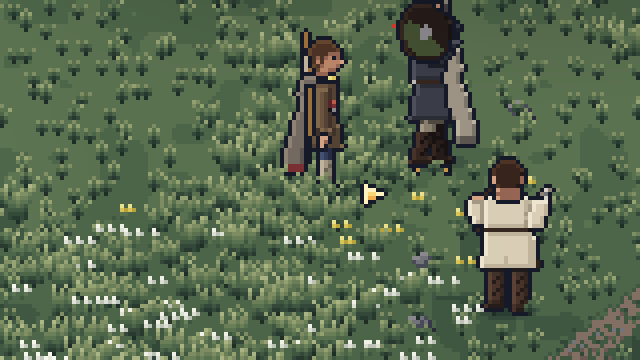
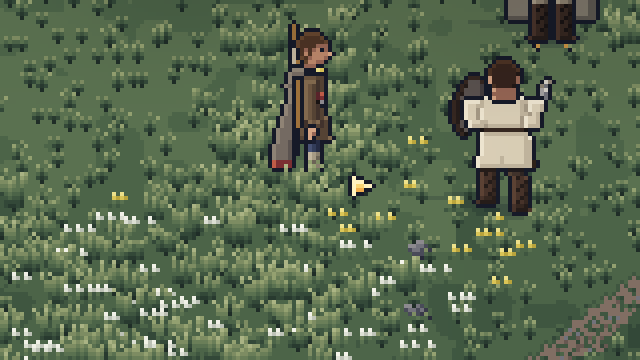
Third playtest: combat built - finish or spare with the SPARED fate, early combat prompts, Svart (parry only) and Ketill (dodge the red blow), first-sight warnings and taunts, the sneak hint, the talk at the fold, the healing prompt (DG-30 to DG-49)
Claude-Session: https://claude.ai/code/session_0162ohqVpUJyGNPN8YxrUFhR

diff --git a/src/tools/art/capturePt3Combat.ts b/src/tools/art/capturePt3Combat.ts
@@ -6,8 +6,9 @@
  * Played in capture mode as the 2.5 clips are (captureCombat2.ts: two ticks a frame, every frame
  * exact), with the overlay shown (the speech lines and the prompts at the right edge are part of
  * what the clips show). A moment is staged through the page's world, then played with the keys,
- * reading the fighters' drawn state as a player reads it. Each is a GIF at 1x of the whole 640 x
- * 360 view (30 frames a second) and a still at 4x of its key moment:
+ * reading the fighters' drawn state as a player reads it. Each is a GIF at 1x of a 480 x 270 crop
+ * of the view (30 frames a second; the fighters, the prompts and the speech line) and a still at 4x
+ * on the steerer:
  *   finisher     Svart beaten (the reel); the finisher held, then its one blow
  *   spare        Svart downed; let go: the shout, his reply, the spear dropped, him running
  *   warning      Conn alone at the stern turning alert: his warning, and the pause
@@ -314,30 +315,40 @@ async function parryOnly(browser: Browser, out: string): Promise<string> {
   let turned = 0;
   let parried = false;
   let pressed = false;
+  let first = -1;
+  let last = -FPS * 9;
+  let parriedAt = -1;
   let after = -1;
   for (let i = 0; i < FPS * 16 && (after < 0 || i < after + FPS * 2); i++) {
     const s = await foe(page, SVART);
     const me = await steerer(page);
     const f = s.f;
-    // Two blows struck at his guard first (turned); then wait for his and parry it in its wind-up.
+    // Blows struck at his guard now and then (turned; he steps back after each); his own, parried.
     if (
-      turned < 2 &&
+      !parried &&
+      !pressed &&
+      i - last >= FPS * 2.5 &&
       me.state === 'idle' &&
       f?.state !== undefined &&
       !f.state.startsWith('charge')
     ) {
       const d = Math.hypot(s.x - me.x, s.y - me.y);
-      if (d < 40 && i % 40 === 0) {
+      // Walk in to him (held until in reach), then strike.
+      const keys = [
+        s.x > me.x + 8 ? 'KeyD' : s.x < me.x - 8 ? 'KeyA' : '',
+        s.y > me.y + 8 ? 'KeyS' : s.y < me.y - 8 ? 'KeyW' : '',
+      ];
+      if (d > 36) {
+        for (const k of keys) if (k !== '') await page.keyboard.down(k);
+      } else {
+        for (const k of ['KeyA', 'KeyD', 'KeyW', 'KeyS']) await page.keyboard.up(k);
         await strike(page);
+        if (turned === 0) first = i;
+        last = i;
         turned++;
       }
-    }
-    if (
-      f !== null &&
-      (turned >= 2 || i > FPS * 6) &&
-      !pressed &&
-      ['light1', 'heavyRelease'].includes(f.state)
-    ) {
+    } else for (const k of ['KeyA', 'KeyD', 'KeyW', 'KeyS']) await page.keyboard.up(k);
+    if (f !== null && turned >= 1 && !pressed && ['light1', 'heavyRelease'].includes(f.state)) {
       // Pressed a few ticks before his blow lands, as the dusk fight's parry clip (captureCombat2).
       const lead = f.activeAt - s.t;
       if (lead >= PARRY_LEAD_MIN && lead <= PARRY_LEAD_MAX) {
@@ -349,9 +360,12 @@ async function parryOnly(browser: Browser, out: string): Promise<string> {
       pressed = false;
     if (f?.state === 'parried' && !parried) {
       parried = true;
+      parriedAt = i;
       await strike(page);
     }
+    // Two seconds after he falls back hurt (or dies), or three after the parry at most.
     if (parried && (s.dead || f?.state === 'reel') && after < 0) after = i;
+    if (parried && after < 0 && i >= parriedAt + FPS) after = i;
     await clip.frame(parried && f?.state === 'parried');
     await heal(page);
     if (i % 60 === 0)
@@ -360,7 +374,14 @@ async function parryOnly(browser: Browser, out: string): Promise<string> {
         if (m?.state === 'WAIT_FOR_OPENING') m.patienceUntil = 0;
       }, SVART);
   }
-  const line = await done(clip, 'parry-only', `parried ${String(parried)}`);
+  // From half a second before the first blow at his guard (the walk in left out), and no more
+  // than seven seconds before the parry (the GIF's size).
+  const line = await done(
+    clip,
+    'parry-only',
+    `parried ${String(parried)}, ${String(turned)} blows turned`,
+    Math.max(0, first - FPS / 2, parriedAt - FPS * 7),
+  );
   await page.close();
   return line;
 }
@@ -426,7 +447,7 @@ async function dodgeOnly(browser: Browser, out: string): Promise<string> {
     clip,
     'dodge-only',
     `dodged ${String(dodged)}, struck ${String(hits)}`,
-    Math.max(0, first - FPS),
+    Math.max(0, first - FPS / 2),
   );
   await page.close();
   return line;

diff --git a/tests/browser/sound.spec.ts b/tests/browser/sound.spec.ts
@@ -57,8 +57,9 @@ test('the sound test page offers every item, with captions and sliders', async (
   // a wound and eating. Committed combat adds seven (design addendum 2.5): the three tells by
   // weight, the steerer's tell, exhausted breathing, a sidearm drawn and a shield split; and four
   // for commitment (DF-83): the parry's rasp, the block's creak, the dodge's landing, the whiff.
-  // The user's third playtest adds the pause menu's click (DG-88).
-  await expect(page.locator('[data-sound]')).toHaveCount(9 + 3 + 3 + 8 + 10 + 7 + 4 + 1);
+  // The user's third playtest adds the pause menu's click (DG-88), and four for the combat (DG-29):
+  // the finisher, the let-go, the guard turned and the red blow's scrape.
+  await expect(page.locator('[data-sound]')).toHaveCount(9 + 3 + 3 + 8 + 10 + 7 + 4 + 1 + 4);
   await expect(page.locator('[data-voice]')).toHaveCount(4);
   await expect(page.locator('[data-step]')).toHaveCount(6);
   await expect(page.locator('[data-step-all]')).toHaveCount(1);

diff --git a/src/sim/land/fight.ts b/src/sim/land/fight.ts
@@ -4232,9 +4232,15 @@ function walk(fw: FightWorld, id: Id, a: OnFootActor, fa: ActorFight): void {
   const ny = a.y + vy * speed;
   if (vx !== 0 && clear(nx, a.y)) a.x = nx;
   if (vy !== 0 && clear(a.x, ny)) a.y = ny;
-  if (a.x === before.x && a.y === before.y && fa.ai.goal?.away === true && speed > 0) {
-    // Running away and blocked straight ahead (rock, deep water): slide along it, on the side
-    // that takes them further from the steerer, rather than stand at it in sight for good.
+  if (
+    a.x === before.x &&
+    a.y === before.y &&
+    (fa.ai.mode === 'FLEE' || fa.ai.mode === 'LEAVE') &&
+    fa.ai.goal?.away === true &&
+    speed > 0
+  ) {
+    // Fleeing or leaving and blocked straight ahead (rock, deep water): slide along it, on the
+    // side that takes them further from the steerer, rather than stand at it in sight for good.
     const p = onFoot.player;
     const sides = [
       { x: -vy, y: vx },

diff --git a/tests/unit/art.test.ts b/tests/unit/art.test.ts
@@ -95,6 +95,7 @@ describe('art lint (Book 7 section 11) — Stage 4 acceptance check 1', () => {
       'fx_outline',
       'fx_people',
       'fx_rain_cloth',
+      'fx_red_glint',
       'fx_sea_burial',
       'fx_sealcave',
       'fx_seamap',

diff --git a/docs/stage-reports/playtest-3-combat.md b/docs/stage-reports/playtest-3-combat.md
@@ -98,10 +98,55 @@ go or finishes it, dodges the red blow across and past Ketill and strikes his re
 Svart; the search bot paths round the fold's walls (DG-48).
 
 ## Tests
-_Filled at the end of the session._
+Run in the shared tree, with the story and interface parts built alongside; failures that are not
+this part's are named.
+
+- **New tests of this part**: `tests/unit/pt3combat.test.ts`, 60 tests (spared records and their
+  fates, the finishers' frame data by weapon and variant, the teaching foes, first sight, the
+  prompts, the heal prompt, the sneak hint, the fold's talk); `tests/browser/pt3combat.spec.ts`,
+  4 tests (stepped, DE-81). **All pass.**
+- Older tests changed for this part: the older combat tests fight the scavengers as plain outlaws
+  (`tests/unit/plainFoes.ts`; DG-48) where they measure other rules; the alarm bark's test reads
+  the first-sight line; the archer tests use Conn alone; the finisher test waits the Book 10
+  wind-up; `saves.test.ts` counts versions to 13; `art.test.ts` and `strandArt.test.ts` count the
+  new frames and the new `fx_red_glint` sheet.
+- `npm run lint`: **clean** (ESLint, Prettier, content lint: 1628 strings, 532 IDs; art lint: 149
+  sheets, 0 placeholders).
+- `npm run build`: **builds** (the usual large-chunk warning only).
+- `npm test` (whole suite, last run): **909 tests: 906 passed, 2 failed, 1 skipped.** The two are
+  golden save 11's ("loads, matches its hash..." and "is reproduced exactly by its scenario"):
+  version 13 and the three parts' changes, for the main session to regenerate. An earlier run also
+  failed the fold's FIGHT scenario (the careful player stalled: the new flee slide first applied to
+  a fighter backing off too; now fleeing and leaving only, and the scenario passes) and art lint's
+  sheet list (the new `fx_red_glint`, now counted).
+- `npm run test:browser -- --project=chromium` (one full run, 8.4 min): **93 passed, 2 failed.**
+  `sound.spec.ts` counted 45 sound buttons and found 49: the four are this part's new sounds, now
+  counted (re-run: passes). `storm.spec.ts`'s frame budget (the cold open, 6.06 ms of script a frame
+  against 5.5) under the full run's load; re-run alone it passes, as the interface part's report
+  found for the same spec. No threshold was changed. CI's Chromium run is the measure.
+- WebKit was not run here: its browser cannot be downloaded in this environment. CI runs Chromium
+  and WebKit, and both block publishing. CI results for this part: none yet (not committed by this
+  session; the main session commits and publishes).
+- The sounds were rendered and measured with `npm run audio:render` (see Balance).
+- Found and fixed by the browser tests and the captures: the let-go shout was lost when a
+  companion's flight bark came in the same frame (the shout is now offered after the frame's
+  events); a let-go foe waited for its next look round before running; a fleeing foe stood at a
+  rock in sight for good (DG-32). No probe tests are left.
 
 ## Gate checks
-_Filled at the end of the session._
+The tests the user asked for, all passing:
+
+| Asked for | File | Test |
+|---|---|---|
+| Spared enemies are recorded (deed, fate, save and load) | `tests/unit/pt3combat.test.ts`; `tests/browser/pt3combat.spec.ts` | "letting go a reeling / downed / begging foe writes SPARED, a record with its fate, drops the weapon, and the foe leaves without rejoining"; "the fates' shares over 2,000 seeded spares match Book 10's odds within 3 points, under each condition"; "the record and what was taught survive save and load; an older save migrates to version 13"; "SPARED is read by each culture's row"; "the scheduler: a Chapter 1 spare waits for the launch..."; browser: "a beaten foe: the choice at the right edge; G lets go, with the shout, the reply and the run" |
+| Finishers only in beaten states, with Book 10 frame data | `tests/unit/pt3combat.test.ts`; `tests/browser/pt3combat.spec.ts` | "the choice is offered only to a beaten foe, within offerReach, in the strike arc"; "a stagger at or below beatenBelow becomes the reel"; one test for each weapon and variant (14): "Book 10's wind-up, active, recovery, step and hitstop; the deed"; "a begging foe finished is SURRENDERED_KILLED; a hold let go early does nothing; a hit in the hold ends it"; browser: "the finisher held on V: one blow after the hold, and the deed of a killing" |
+| The teaching foes beatable only the intended way | `tests/unit/pt3combat.test.ts`; `tests/browser/pt3combat.spec.ts` | for each of Svart and Ketill, every other way for five minutes leaves him at full vitality, his guard turning it (chip with lights, charge heavies, block and punish, shove, backstab from cover, loose arrows, throw spears: 14 tests); "a player that parries beats Svart, on 10 seeds"; "a player that dodges the red blow and strikes in its recovery beats Ketill, on 10 seeds"; "the red blow breaks a raised guard and beats a parry..."; browser: "Svart turns a blow outside his opening; the parry prompt shows at his telegraph" |
+| Every tutorial enemy speaks before attacking | `tests/unit/pt3combat.test.ts`; `tests/browser/pt3combat.spec.ts` | at the dusk (walking or running from the west, down the bank, sneaking through the dune grass, from the east) and the fold's band, Seal Cave's band and one alone, met from the east and the west; "a warning when alone or outnumbered, a taunt in a group; no line follows itself..."; browser: "the scavengers at the stern speak before any attack (first sight)" |
+| Prompts in fights 1 to 3 only | `tests/unit/pt3combat.test.ts` | "show in fights 1 to 3, and never after; each retires after its uses"; "the simulation counts the steerer's fights and the uses in fights" |
+| The heal prompt stops after 3 heals | `tests/unit/pt3combat.test.ts` | "the heal prompt shows on a hit below the threshold with a binding carried, and stops after 3 heals"; "the simulation counts heals finished..." |
+| The sneak hint | `tests/unit/pt3combat.test.ts` | "...the sneak hint shows on the dusk approach, at most its times, gone once sneaked" |
+| The fold's talk stops on awareness | `tests/unit/pt3combat.test.ts` | "plays while all are unaware, never the same exchange twice in a row, leaving out the absent"; "stops for good the moment any of them notices the steerer"; "in the game: the fold's band talks while unaware, and stops at the first suspicion" |
+| Browser tests, stepped | `tests/browser/pt3combat.spec.ts` | the four above, each in capture mode (the page advances only when stepped) |
 
 ## Art check
 All new frames are palette-indexed sources in the people generator
@@ -109,7 +154,9 @@ All new frames are palette-indexed sources in the people generator
 miss, and two finishers for each weapon kind, 114 frames a facing; `combat24_ui.py`: the red glint
 on the Danger tell's reserved code; `missiles.py`: the spear and axe lying as loot), compiled through
 `art:adopt`, `art:sheets` and `art:compile`; art lint is clean (149 sheets, 0 placeholders). The
-sweeps under `docs/art/stage-06-rework` that the proposal tool rewrites were restored from git.
+sweeps under `docs/art/stage-06-rework` that the proposal tool rewrites (and that the in-progress
+commits took in) are restored to the books' revision, c7ecdb6, in the working tree, with the
+capture's leftover frames removed; `docs/art/mockups` is unchanged.
 
 - **Rendered at 1x and 4x and inspected** (`assets/art/authoring/pt3_combat_review.py`):
   `docs/art/playtest-3/combat/sheets/` holds `steerer_a_pt3`, `steerer_b_pt3`, `heavy_pt3`,
@@ -120,7 +167,19 @@ sweeps under `docs/art/stage-06-rework` that the proposal tool rewrites were res
   meeting the blow; the red glint reads at 1x as a short red flare at the weapon's edge.
 - **From the real game at 1x** (`npm run capture -- playtest-3-combat`, extending the capture tool:
   `src/tools/art/capturePt3Combat.ts`), each with a 4x still, in `docs/art/playtest-3/combat/`:
-  GIFS_TABLE
+
+  | GIF (1x: a 480 x 270 crop of the 640 x 360 view, 30 fps) | Size | What it shows |
+  |---|---|---|
+  | `finisher.gif` + `finisher@4x.png` | 1.09 MB | Svart reeling at the stern, the choice at the right edge, V held, the seax's standing finisher: one blow, his fall |
+  | `spare.gif` + `spare@4x.png` | 1.55 MB | Svart downed, G: the steerer's shout, his reply, the spear dropped, his run |
+  | `warning.gif` + `warning@4x.png` | 1.85 MB | walking up the strand at dusk to Conn alone at the stern: his warning on first sight, and the pause |
+  | `taunt.gif` + `taunt@4x.png` | 0.99 MB | the same approach to Svart and Conn together: the taunt on first sight, and the shorter pause |
+  | `parry-only.gif` + `parry-only@4x.png` | 2.78 MB | three blows turned by Svart's guard (the sparks), the parry prompt, his blow parried and the riposte, his line |
+  | `dodge-only.gif` + `dodge-only@4x.png` | 1.70 MB | Ketill at the fold: the red glint and the prompt, Bran's guidance, two red blows dodged across him and his recovery struck |
+
+  Each was watched frame by frame (a tile of frames per GIF) and its still looked at at 4x: the
+  prompts sit at the right edge clear of the captions and fade over the fighters; the speech is
+  under the speaker's name; the new frames play at the game's scale with the old ones.
 - Compared with `docs/art/reference/` (`wreck-strand-target`): the clips are the strand and the fold
   as already built to the Book 7 section 14 standard (grass in the wind, the surf, the dusk light,
   the shadows), with the new fight frames in them; the new frames hold the reference's outline,
@@ -168,7 +227,23 @@ DG-30 to DG-49 in `docs/decision-log.md` ("Building the combat"). To flag for th
   offered and nobody else in reach winds up.
 
 ## Known issues
-KNOWN_ISSUES
+- **Golden save 11** (main session): fails to load and to reproduce, as expected with version 13
+  and the three parts' changes; the main session regenerates it. Goldens 1 to 10 are untouched and
+  load through the migration.
+- **The spared remembered after the launch** (medium): the fates are drawn, saved, scheduled and
+  played on the island; the road ambush, the favours and the grateful survivor after the launch are
+  Stage 13's (`sparedDueNow`), so a Chapter 1 spare's due day comes to nothing yet beyond its
+  precursor and due events (DG-41).
+- **No `world` stream** (low): the fate is drawn on the `encounters` stream (DG-33).
+- **Dropped weapons** (low): they lie as loot and cannot be taken up in Chapter 1 (DG-38).
+- **The heavy generic body's finishers** (low): drawn without a weapon layer (DG-37).
+- **The prompts at the stern's east end** (low): there the fighters stand under the prompts' box,
+  so the prompts fade, as Book 10 promptClear asks; a player fighting at the very east edge sees
+  them less. The browser tests stage their fights in the strand's open middle.
+- **The careful scripted player** wins most but not all seeded fights at the fold (it is the
+  dangerous way, Book 1 section 05); the scenario asks at least 3 of 8.
+- **Audio** was measured, not heard (no speakers in this environment).
+- **WebKit** not run here (see Tests).
 
 ## Next stage ready
 NO: this is one part of the third playtest's rework; the user playtests the whole of it at the
